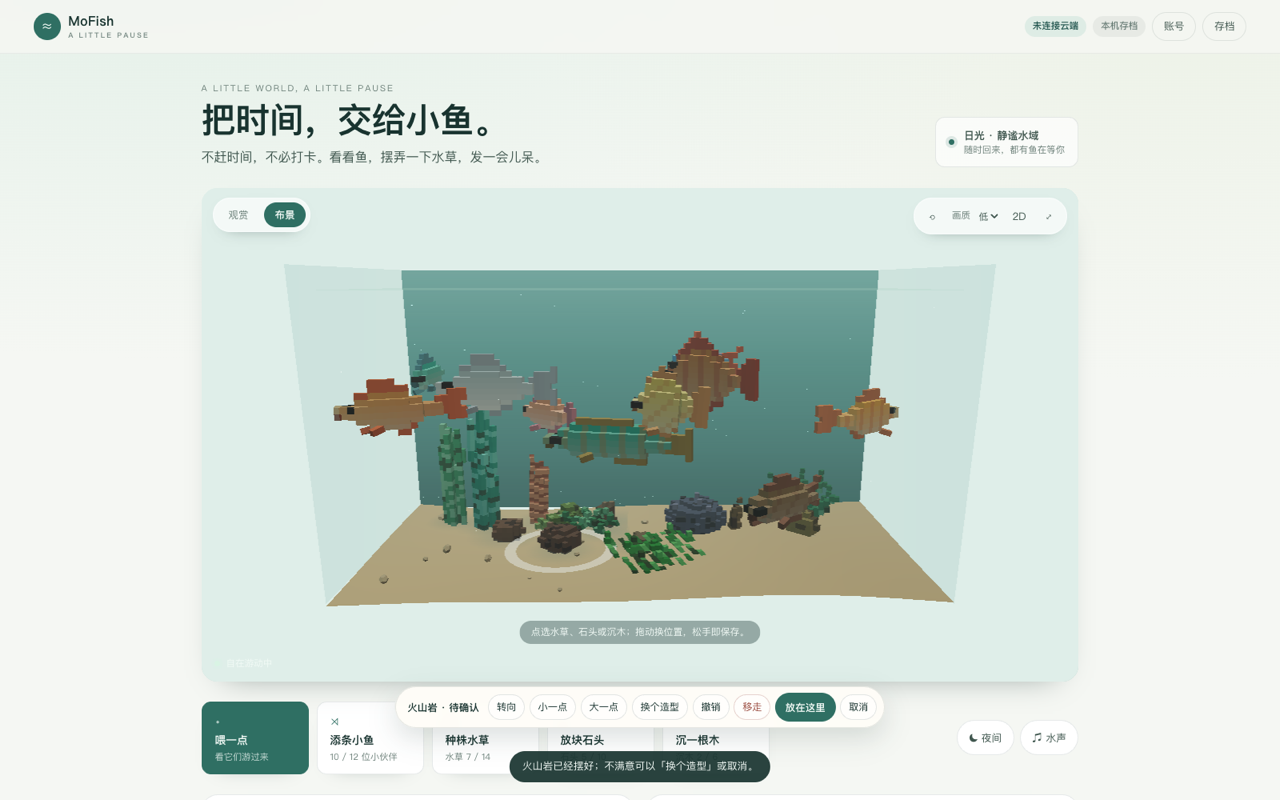
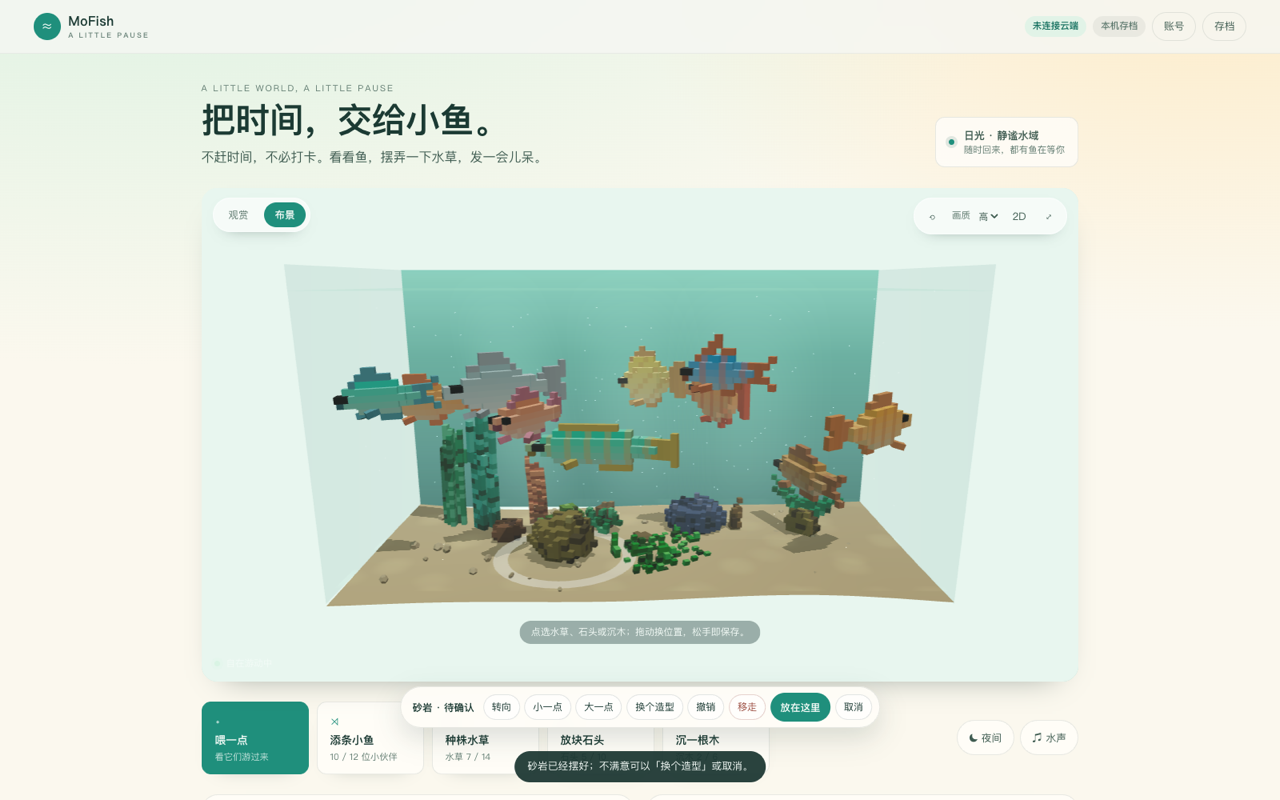
fix(decor): wire the floating decor bar buttons; brighter, sunnier palette
Two user reports:

1. Placing a new rock/plant could be dragged, but none of the buttons below
   worked. The floating bar's buttons were never bound (only the side-panel
   ones were), and cancelling left the pending row on screen. Both fixed:
   float buttons now delegate to the panel actions, and the empty-selection
   branch clears pending actions / confirm / cancel state.
2. Wanted fresher, sunnier colours. Repainted fish palettes (higher
   saturation, brighter accents), page background (warm cream + aqua and
   sun glows, fresher accent), water/back wall (clearer aqua).

e2e now covers the floating bar (rotate / confirm / cancel) - 78/78.

diff --git a/web/catalog.js b/web/catalog.js
@@ -28,63 +28,63 @@ export const FISH_TYPES = [
     body: { len: 0.62, depth: 0.54, width: 0.52, head: 0.62, belly: 0.58, peduncle: 0.3, arch: 0.16 },
     fins: { tail: 'veil', tailSize: 0.46, dorsal: 'long', dorsalSize: 0.36, anal: 0.26, pectoral: 0.30, pelvic: 0.16, barbels: 0 },
     motion: { speed: 0.42, wag: 0.85, freq: 2.0, turn: 1.4, depthBias: 0.52, bob: 0.10 },
-    palette: { hue: [34, 44], sat: [0.52, 0.66], light: [0.46, 0.56], accentHue: 20, accentSat: [0.45, 0.6], patterns: ['gradient', 'stripe'] }
+    palette: { hue: [34, 44], sat: [0.72, 0.86], light: [0.52, 0.61], accentHue: 24, accentSat: [0.56, 0.7], patterns: ['gradient', 'stripe'] }
   },
   {
     id: 'mint', name: '薄荷青', note: '细长轻快，喜欢在水流里穿来穿去',
     body: { len: 0.46, depth: 0.28, width: 0.38, head: 0.78, belly: 0.5, peduncle: 0.3, arch: 0.06 },
     fins: { tail: 'fork', tailSize: 0.36, dorsal: 'tri', dorsalSize: 0.20, anal: 0.14, pectoral: 0.18, pelvic: 0.10, barbels: 2 },
     motion: { speed: 1.0, wag: 0.55, freq: 4.2, turn: 3.0, depthBias: 0.64, bob: 0.05 },
-    palette: { hue: [156, 172], sat: [0.34, 0.46], light: [0.46, 0.56], accentHue: 186, accentSat: [0.3, 0.42], patterns: ['stripe', 'plain', 'spot'] }
+    palette: { hue: [156, 174], sat: [0.54, 0.66], light: [0.52, 0.61], accentHue: 188, accentSat: [0.38, 0.5], patterns: ['stripe', 'plain', 'spot'] }
   },
   {
     id: 'moon', name: '月光银', note: '高身薄片，慢慢滑过水草上方',
     body: { len: 0.66, depth: 0.7, width: 0.32, head: 0.5, belly: 0.46, peduncle: 0.15, arch: 0.2 },
     fins: { tail: 'veil', tailSize: 0.42, dorsal: 'long', dorsalSize: 0.72, anal: 0.55, pectoral: 0.26, pelvic: 0.14, barbels: 2 },
     motion: { speed: 0.38, wag: 0.4, freq: 1.5, turn: 1.1, depthBias: 0.56, bob: 0.04 },
-    palette: { hue: [188, 208], sat: [0.17, 0.25], light: [0.62, 0.70], accentHue: 212, accentSat: [0.12, 0.2], patterns: ['plain', 'band'] }
+    palette: { hue: [188, 208], sat: [0.32, 0.42], light: [0.68, 0.75], accentHue: 212, accentSat: [0.16, 0.24], patterns: ['plain', 'band'] }
   },
   {
     id: 'coral', name: '珊瑚粉', note: '圆滚滚的小个子，尾巴一收一放',
     body: { len: 0.5, depth: 0.56, width: 0.46, head: 0.6, belly: 0.55, peduncle: 0.3, arch: 0.12 },
     fins: { tail: 'round', tailSize: 0.28, dorsal: 'tri', dorsalSize: 0.3, anal: 0.24, pectoral: 0.26, pelvic: 0.14, barbels: 0 },
     motion: { speed: 0.48, wag: 0.7, freq: 2.2, turn: 1.7, depthBias: 0.5, bob: 0.09 },
-    palette: { hue: [8, 20], sat: [0.42, 0.56], light: [0.58, 0.66], accentHue: 348, accentSat: [0.3, 0.42], patterns: ['plain', 'gradient'] }
+    palette: { hue: [8, 20], sat: [0.64, 0.78], light: [0.62, 0.69], accentHue: 344, accentSat: [0.4, 0.52], patterns: ['plain', 'gradient'] }
   },
   {
     id: 'ribbon', name: '缎带青', note: '一条柔软的丝带，顺着水草边缘游',
     body: { len: 0.92, depth: 0.16, width: 0.5, head: 0.86, belly: 0.5, peduncle: 0.42, arch: 0.02 },
     fins: { tail: 'lance', tailSize: 0.22, dorsal: 'ridge', dorsalSize: 0.1, anal: 'ridge', analSize: 0.08, pectoral: 0.1, pelvic: 0, barbels: 4 },
     motion: { speed: 0.6, wag: 1.2, freq: 1.5, turn: 1.9, depthBias: 0.3, bob: 0.03 },
-    palette: { hue: [168, 188], sat: [0.38, 0.50], light: [0.32, 0.42], accentHue: 46, accentSat: [0.34, 0.46], patterns: ['stripe', 'plain'] }
+    palette: { hue: [166, 186], sat: [0.56, 0.68], light: [0.42, 0.52], accentHue: 48, accentSat: [0.42, 0.54], patterns: ['stripe', 'plain'] }
   },
   {
     id: 'puff', name: '团子', note: '圆球一样浮着，偶尔扇两下小翅膀',
     body: { len: 0.4, depth: 0.78, width: 0.66, head: 0.66, belly: 0.6, peduncle: 0.26, arch: 0.1 },
     fins: { tail: 'fan', tailSize: 0.24, dorsal: 'small', dorsalSize: 0.14, anal: 0.12, pectoral: 0.24, pelvic: 0.08, barbels: 0 },
     motion: { speed: 0.34, wag: 0.45, freq: 2.6, turn: 1.3, depthBias: 0.6, bob: 0.2 },
-    palette: { hue: [44, 58], sat: [0.38, 0.50], light: [0.50, 0.58], accentHue: 30, accentSat: [0.3, 0.42], patterns: ['spot', 'plain'] }
+    palette: { hue: [44, 58], sat: [0.60, 0.72], light: [0.57, 0.65], accentHue: 34, accentSat: [0.4, 0.52], patterns: ['spot', 'plain'] }
   },
   {
     id: 'fan', name: '罗扇', note: '高高的圆盘身形，转身像展开一把扇子',
     body: { len: 0.64, depth: 0.94, width: 0.3, head: 0.52, belly: 0.44, peduncle: 0.12, arch: 0.24 },
     fins: { tail: 'fan', tailSize: 0.34, dorsal: 'long', dorsalSize: 0.5, anal: 0.46, pectoral: 0.24, pelvic: 0.12, barbels: 0 },
     motion: { speed: 0.3, wag: 0.35, freq: 1.2, turn: 0.9, depthBias: 0.48, bob: 0.05 },
-    palette: { hue: [22, 34], sat: [0.46, 0.58], light: [0.42, 0.52], accentHue: 10, accentSat: [0.4, 0.52], patterns: ['band', 'stripe'] }
+    palette: { hue: [22, 34], sat: [0.66, 0.78], light: [0.50, 0.60], accentHue: 12, accentSat: [0.46, 0.58], patterns: ['band', 'stripe'] }
   },
   {
     id: 'dart', name: '飞梭', note: '流线型的快枪手，转弯也干净利落',
     body: { len: 0.44, depth: 0.3, width: 0.4, head: 0.74, belly: 0.5, peduncle: 0.3, arch: 0.05 },
     fins: { tail: 'fork', tailSize: 0.44, dorsal: 'tri', dorsalSize: 0.22, anal: 0.16, pectoral: 0.2, pelvic: 0.1, barbels: 0 },
     motion: { speed: 1.2, wag: 0.5, freq: 5.0, turn: 3.6, depthBias: 0.68, bob: 0.04 },
-    palette: { hue: [194, 214], sat: [0.44, 0.58], light: [0.40, 0.52], accentHue: 20, accentSat: [0.4, 0.55], patterns: ['stripe', 'spot'] }
+    palette: { hue: [194, 214], sat: [0.62, 0.76], light: [0.47, 0.57], accentHue: 26, accentSat: [0.46, 0.6], patterns: ['stripe', 'spot'] }
   },
   {
     id: 'whisker', name: '须影', note: '贴着沙面巡游，嘴边有几根细细的须',
     body: { len: 0.56, depth: 0.22, width: 0.55, head: 0.72, belly: 0.62, peduncle: 0.26, arch: 0.04 },
     fins: { tail: 'fork', tailSize: 0.3, dorsal: 'tri', dorsalSize: 0.18, anal: 0.14, pectoral: 0.2, pelvic: 0.12, barbels: 4 },
     motion: { speed: 0.36, wag: 0.5, freq: 2.0, turn: 1.5, depthBias: 0.12, bob: 0.02 },
-    palette: { hue: [28, 42], sat: [0.28, 0.40], light: [0.34, 0.44], accentHue: 18, accentSat: [0.24, 0.36], patterns: ['spot', 'saddle'] }
+    palette: { hue: [28, 42], sat: [0.48, 0.60], light: [0.43, 0.53], accentHue: 24, accentSat: [0.32, 0.44], patterns: ['spot', 'saddle'] }
   }
 ];
 
@@ -105,32 +105,32 @@ export const PLANT_TYPES = [
   {
     id: 'vallis', name: '细叶苦草', shape: 'blade',
     params: { blades: [14, 22], height: [0.78, 1.22], width: [0.038, 0.058], bend: [0.1, 0.36], spread: [0.07, 0.16] },
-    palette: { hue: [148, 166], sat: [0.34, 0.46], light: [0.26, 0.40] }
+    palette: { hue: [148, 166], sat: [0.46, 0.58], light: [0.30, 0.37] }
   },
   {
     id: 'anubias', name: '小榕', shape: 'rosette',
     params: { leaves: [6, 9], height: [0.24, 0.4], width: [0.1, 0.15], bend: [0.28, 0.56], spread: [0.07, 0.16] },
-    palette: { hue: [138, 156], sat: [0.36, 0.48], light: [0.26, 0.32] }
+    palette: { hue: [138, 156], sat: [0.48, 0.60], light: [0.30, 0.34] }
   },
   {
     id: 'rotala', name: '红松尾', shape: 'stem',
     params: { stems: [4, 7], height: [0.5, 0.82], leaves: [12, 20], width: [0.032, 0.05], bend: [0.05, 0.2], spread: [0.05, 0.12] },
-    palette: { hue: [4, 22], sat: [0.34, 0.48], light: [0.26, 0.34] }
+    palette: { hue: [4, 22], sat: [0.46, 0.60], light: [0.30, 0.34] }
   },
   {
     id: 'moss', name: '苔球', shape: 'moss',
     params: { blobs: [4, 7], height: [0.12, 0.24], width: [0.09, 0.15], bend: [0, 0], spread: [0.05, 0.12] },
-    palette: { hue: [86, 110], sat: [0.34, 0.44], light: [0.26, 0.32] }
+    palette: { hue: [86, 110], sat: [0.46, 0.56], light: [0.30, 0.34] }
   },
   {
     id: 'fern', name: '铁皇冠', shape: 'fern',
     params: { fronds: [7, 11], height: [0.38, 0.6], leaves: [8, 12], width: [0.06, 0.09], bend: [0.3, 0.62], spread: [0.06, 0.14] },
-    palette: { hue: [142, 158], sat: [0.32, 0.42], light: [0.26, 0.32] }
+    palette: { hue: [142, 158], sat: [0.44, 0.54], light: [0.30, 0.34] }
   },
   {
     id: 'carpet', name: '牛毛毡', shape: 'carpet',
     params: { needles: [44, 74], height: [0.09, 0.17], width: [0.009, 0.014], bend: [0.1, 0.3], spread: [0.26, 0.46] },
-    palette: { hue: [104, 126], sat: [0.38, 0.50], light: [0.26, 0.32] }
+    palette: { hue: [104, 126], sat: [0.50, 0.62], light: [0.30, 0.34] }
   }
 ];
 
@@ -141,27 +141,27 @@ export const ROCK_TYPES = [
   {
     id: 'seiryu', name: '青龙石', shape: 'ridged',
     params: { size: [0.34, 0.65], height: [0.8, 1.4], rough: [0.18, 0.34], detail: [2, 4] },
-    palette: { hue: [202, 218], sat: [0.17, 0.23], light: [0.26, 0.32] }
+    palette: { hue: [202, 218], sat: [0.29, 0.35], light: [0.30, 0.34] }
   },
   {
     id: 'lava', name: '火山岩', shape: 'porous',
     params: { size: [0.21, 0.42], height: [0.7, 1.1], rough: [0.3, 0.5], detail: [3, 6] },
-    palette: { hue: [14, 28], sat: [0.20, 0.28], light: [0.26, 0.32] }
+    palette: { hue: [14, 28], sat: [0.32, 0.40], light: [0.30, 0.34] }
   },
   {
     id: 'pebble', name: '溪卵石', shape: 'smooth',
     params: { size: [0.16, 0.34], height: [0.45, 0.72], rough: [0.06, 0.14], detail: [1, 2] },
-    palette: { hue: [34, 50], sat: [0.15, 0.21], light: [0.28, 0.40] }
+    palette: { hue: [34, 50], sat: [0.27, 0.33], light: [0.30, 0.37] }
   },
   {
     id: 'slate', name: '板岩', shape: 'layered',
     params: { size: [0.31, 0.57], height: [0.5, 0.9], rough: [0.16, 0.3], detail: [3, 5] },
-    palette: { hue: [210, 228], sat: [0.15, 0.21], light: [0.26, 0.32] }
+    palette: { hue: [210, 228], sat: [0.27, 0.33], light: [0.30, 0.34] }
   },
   {
     id: 'sandstone', name: '砂岩', shape: 'blocky',
     params: { size: [0.26, 0.55], height: [0.55, 0.95], rough: [0.22, 0.38], detail: [2, 4] },
-    palette: { hue: [36, 48], sat: [0.26, 0.36], light: [0.30, 0.42] }
+    palette: { hue: [36, 48], sat: [0.38, 0.48], light: [0.30, 0.39] }
   }
 ];
 
@@ -172,12 +172,12 @@ export const WOOD_TYPES = [
   {
     id: 'branch', name: '沉木枝', shape: 'branch',
     params: { length: [0.5, 0.86], girth: [0.035, 0.055], branches: [2, 4], height: [0.3, 0.62] },
-    palette: { hue: [24, 38], sat: [0.26, 0.36], light: [0.26, 0.32] }
+    palette: { hue: [24, 38], sat: [0.38, 0.48], light: [0.30, 0.34] }
   },
   {
     id: 'stump', name: '沉木桩', shape: 'stump',
     params: { length: [0.26, 0.42], girth: [0.08, 0.13], branches: [3, 5], height: [0.28, 0.46] },
-    palette: { hue: [22, 34], sat: [0.22, 0.30], light: [0.26, 0.32] }
+    palette: { hue: [22, 34], sat: [0.34, 0.42], light: [0.30, 0.34] }
   }
 ];
 

diff --git a/web/style.css b/web/style.css
@@ -2,18 +2,18 @@
    断点：>=980 双栏面板；640-979 单栏；<640 手机（工具两列、布景按钮可点按）。 */
 
 :root {
-  --bg: #f5f7f3;
-  --bg-soft: #eef3ee;
-  --surface: #ffffff;
-  --ink: #18332f;
-  --ink-soft: #40574f;
-  --muted: #6b7f78;
-  --line: rgba(24, 51, 47, 0.1);
-  --line-strong: rgba(24, 51, 47, 0.18);
-  --accent: #2f6f63;
-  --accent-deep: #245750;
-  --accent-soft: #deece5;
-  --accent-warm: #c9a06a;
+  --bg: #fbf8ee;
+  --bg-soft: #f3f7ec;
+  --surface: #fffdf7;
+  --ink: #1b3a33;
+  --ink-soft: #3f5c51;
+  --muted: #5f7a6f;
+  --line: rgba(27, 58, 51, 0.1);
+  --line-strong: rgba(27, 58, 51, 0.18);
+  --accent: #1f8f7c;
+  --accent-deep: #15705f;
+  --accent-soft: #e1f3e7;
+  --accent-warm: #f0b45c;
   --danger: #9d4b45;
   --shadow: 0 18px 40px -28px rgba(20, 48, 44, 0.55);
   --radius: 20px;
@@ -27,8 +27,9 @@ html, body { margin: 0; padding: 0; }
 
 body {
   background:
-    radial-gradient(120% 60% at 12% -10%, rgba(206, 232, 219, 0.55), transparent 60%),
-    radial-gradient(90% 50% at 92% 0%, rgba(233, 240, 226, 0.7), transparent 55%),
+    radial-gradient(120% 62% at 10% -12%, rgba(190, 236, 214, 0.6), transparent 62%),
+    radial-gradient(80% 48% at 95% -4%, rgba(255, 224, 166, 0.55), transparent 58%),
+    radial-gradient(70% 40% at 50% 108%, rgba(214, 240, 226, 0.5), transparent 62%),
     var(--bg);
   color: var(--ink);
   line-height: 1.55;
@@ -165,7 +166,7 @@ main {
   max-height: 70vh;
   border-radius: var(--radius);
   overflow: hidden;
-  background: linear-gradient(160deg, #cfe6de, #a9cfc7 60%, #8fbcb4);
+  background: linear-gradient(160deg, #d7f0e4, #aee0d2 58%, #93cabc);
   box-shadow: var(--shadow), inset 0 0 0 1px rgba(255, 255, 255, 0.4);
   isolation: isolate;
 }

diff --git a/web/app.js b/web/app.js
@@ -565,6 +565,11 @@ function refreshDecorPanel() {
   if (!item) {
     $('decor-title').textContent = editMode === 'decor' ? '点一件水草或石头开始摆。' : '摆一摆，让水底更自然。';
     floatBar.hidden = true;
+    // 取消/移走后要清掉所有「待确认」痕迹，否则按钮会残留一行
+    $('decor-pending-actions').hidden = true;
+    $('float-confirm').hidden = true;
+    $('float-cancel').hidden = true;
+    $('decor-state').textContent = '';
     return;
   }
   const meta = KIND_META[item.kind];
@@ -676,6 +681,24 @@ $('decor-delete').onclick = () => deleteSelectedDecor();
 $('decor-undo').onclick = () => restoreFromUndo();
 $('decor-confirm').onclick = () => confirmPendingDecor();
 $('decor-cancel').onclick = () => cancelPendingDecor();
+
+// 布景浮动工具条：动作转交给面板里的同名按钮，逻辑只有一份（面板在小屏上可能在折叠区）。
+const FLOAT_ACTION_TARGETS = {
+  rotate: 'decor-rotate',
+  'scale-down': 'decor-scale-down',
+  'scale-up': 'decor-scale-up',
+  reshuffle: 'decor-reshuffle',
+  undo: 'decor-undo',
+  delete: 'decor-delete'
+};
+for (const btn of floatBar.querySelectorAll('[data-decor-action]')) {
+  btn.onclick = () => {
+    const target = $(FLOAT_ACTION_TARGETS[btn.dataset.decorAction]);
+    if (target && !target.disabled) target.click();
+  };
+}
+$('float-confirm').onclick = () => { if (!$('decor-confirm').disabled) $('decor-confirm').click(); };
+$('float-cancel').onclick = () => $('decor-cancel').click();
 $('detail-rename').onclick = () => openFishDialog(activeFishId);
 
 // 键盘：Ctrl/⌘+Z 撤销布景编辑；Esc 退出布景选择

diff --git a/web/aquarium/scene.js b/web/aquarium/scene.js
@@ -38,14 +38,14 @@ export const QUALITY = {
 };
 
 const DAY = {
-  bg: new THREE.Color('#dfeee9'),
-  fog: new THREE.Color('#cfe4dd'),
-  water: new THREE.Color('#a9d8cf'),
-  key: new THREE.Color('#fff4e2'),
-  fill: new THREE.Color('#bfe6df'),
-  hemiSky: new THREE.Color('#eaf7f2'),
-  hemiGround: new THREE.Color('#b6a68a'),
-  exposure: 0.98
+  bg: new THREE.Color('#e8f6ef'),
+  fog: new THREE.Color('#d8ecdf'),
+  water: new THREE.Color('#a2e2d1'),
+  key: new THREE.Color('#fff8ea'),
+  fill: new THREE.Color('#cdeee2'),
+  hemiSky: new THREE.Color('#f2fbf6'),
+  hemiGround: new THREE.Color('#c8b48f'),
+  exposure: 1.0
 };
 
 const NIGHT = {
@@ -273,10 +273,10 @@ export function createTankScene({ canvas, quality = 'high' }) {
 
   const wallMat = new THREE.MeshBasicMaterial({
     map: gradientTexture([
-      [0, '#5d968e'],
-      [0.35, '#3d7a72'],
-      [0.75, '#2a5f59'],
-      [1, '#1d4944']
+      [0, '#79c9b6'],
+      [0.35, '#4f9f90'],
+      [0.75, '#41857b'],
+      [1, '#2f6d66']
     ]),
     toneMapped: false,
     side: THREE.DoubleSide

diff --git a/docs/VISUAL-DESIGN.md b/docs/VISUAL-DESIGN.md
@@ -19,12 +19,12 @@
 
 | 用途 | 值 | 说明 |
 | --- | --- | --- |
-| 页面底色 | `#f5f7f3` + 两处极淡的青绿径向渐变 | 暖白纸感 |
-| 主文字 / 次文字 | `#18332f` / `#6b7f78` | 深墨绿，不用纯黑 |
-| 强调色 | `#2f6f63`（深）/ `#deece5`（浅） | 按钮、选中态、进度 |
-| 暖色点缀 | `#c9a06a` | 食物、少量成熟鱼体色 |
-| 水面 | 日间 `#a9d8cf`，夜间 `#2f5860` | 低透明度 + 菲涅尔 |
-| 背墙 | `#5d968e → #1d4944` 垂直渐变 | 营造纵深，夜间整体压暗 |
+| 页面底色 | `#fbf8ee` + 青绿/暖阳/薄荷三层极淡径向渐变 | 暖奶油纸感，右上偏阳光 |
+| 主文字 / 次文字 | `#1b3a33` / `#5f7a6f` | 深墨绿，不用纯黑 |
+| 强调色 | `#1f8f7c`（深）/ `#e1f3e7`（浅） | 按钮、选中态、进度，比上一版更鲜 |
+| 暖色点缀 | `#f0b45c` | 食物、少量成熟鱼体色、页头阳光渐变 |
+| 水面 | 日间 `#a2e2d1`，夜间 `#2f5860` | 低透明度 + 菲涅尔 |
+| 背墙 | `#79c9b6 → #2f6d66` 垂直渐变 | 清爽的水下青绿，夜间整体压暗 |
 | 沙面 | `#c3ac83 → #8d7f61` 顶点色 | 带起伏与碎卵石 |
 | 鱼体 | 每种鱼一组 HSL 色域 + 个体抖动 | 见 §3 |
 | 水草 | 青绿 / 苔绿 / 少量暗红（红松尾） | 低饱和 |
@@ -64,7 +64,7 @@
 
 每条鱼在创建时生成一个持久 `look.seed`（32 位），所有外观都由它派生（`web/model.js` 的 `fishAppearance`）：
 
-- 主色/辅色：在该鱼型的 HSL 色域内取色 + 少量抖动；
+- 主色/辅色：在该鱼型的 HSL 色域内取色 + 少量抖动；整体往「新鲜阳光」调过一版（饱和度 0.5–0.85、明度 0.45–0.7），银白鱼除外；
 - 花纹：`plain / stripe / band / spot / saddle / gradient` 中受控选取；
 - 体长、体宽、鳍比例：±7% 左右；
 - 游动节律：相位与速度的轻微差异；

diff --git a/docs/POST-A-PROGRESS.md b/docs/POST-A-PROGRESS.md
@@ -19,6 +19,7 @@
 | M8 云端 | 进食记账、去重、结算、迁移与回滚 | `web/cloud/*`、`supabase/migrations/*` |
 | M9 验证 | 单测、SQL、并发、e2e、截图、性能 | 163 + 10 + 74 全绿 |
 | M10 体素化 | 用户反馈「整体还是太丑」，改为 Minecraft 式方块画风：鱼/水草/石头/沉木全部重写为体素几何 | `fish.js`、`decor.js` 重写，样式与截图更新 |
+| M11 配色提亮 | 用户要求「鱼和页面配色更新鲜阳光」：提亮鱼体饱和度/明度、页面改暖奶油底 + 青绿/暖阳光晕、水体与背墙更清透 | `catalog.js`、`style.css`、`scene.js` |
 
 ## 2. 关键决定
 
